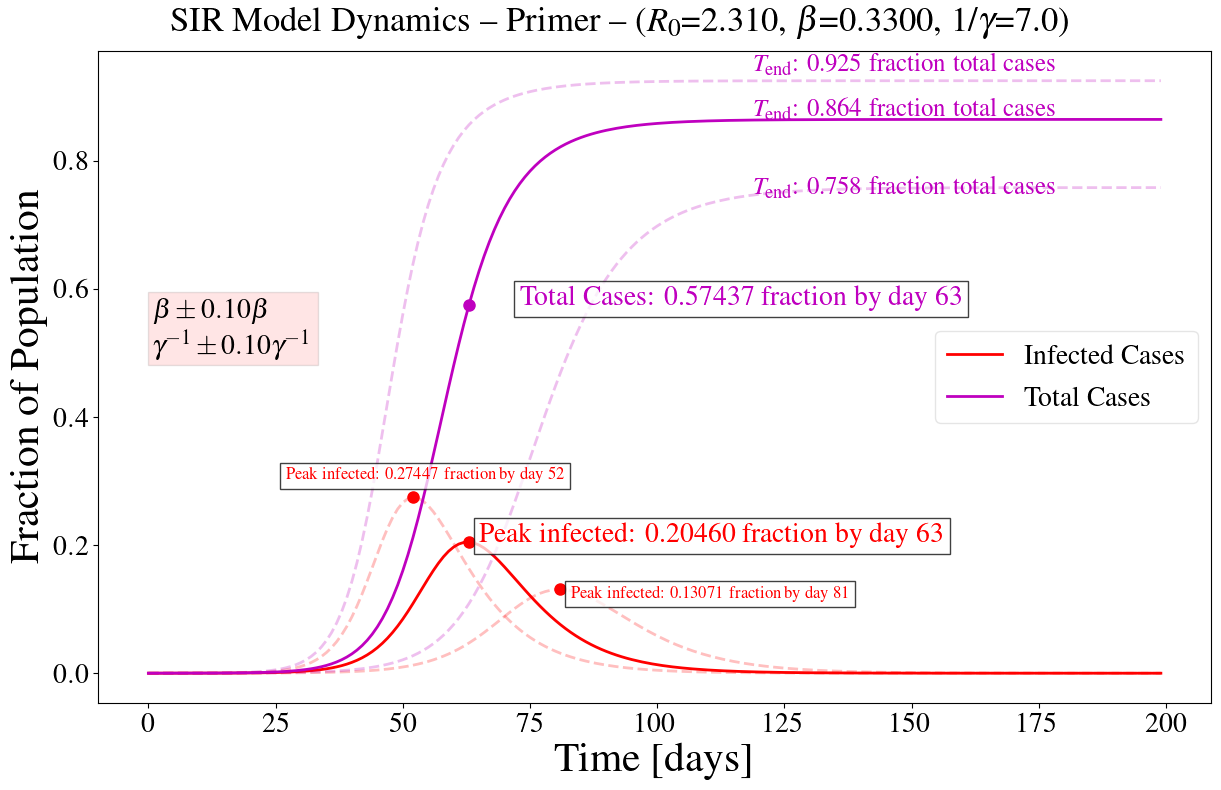
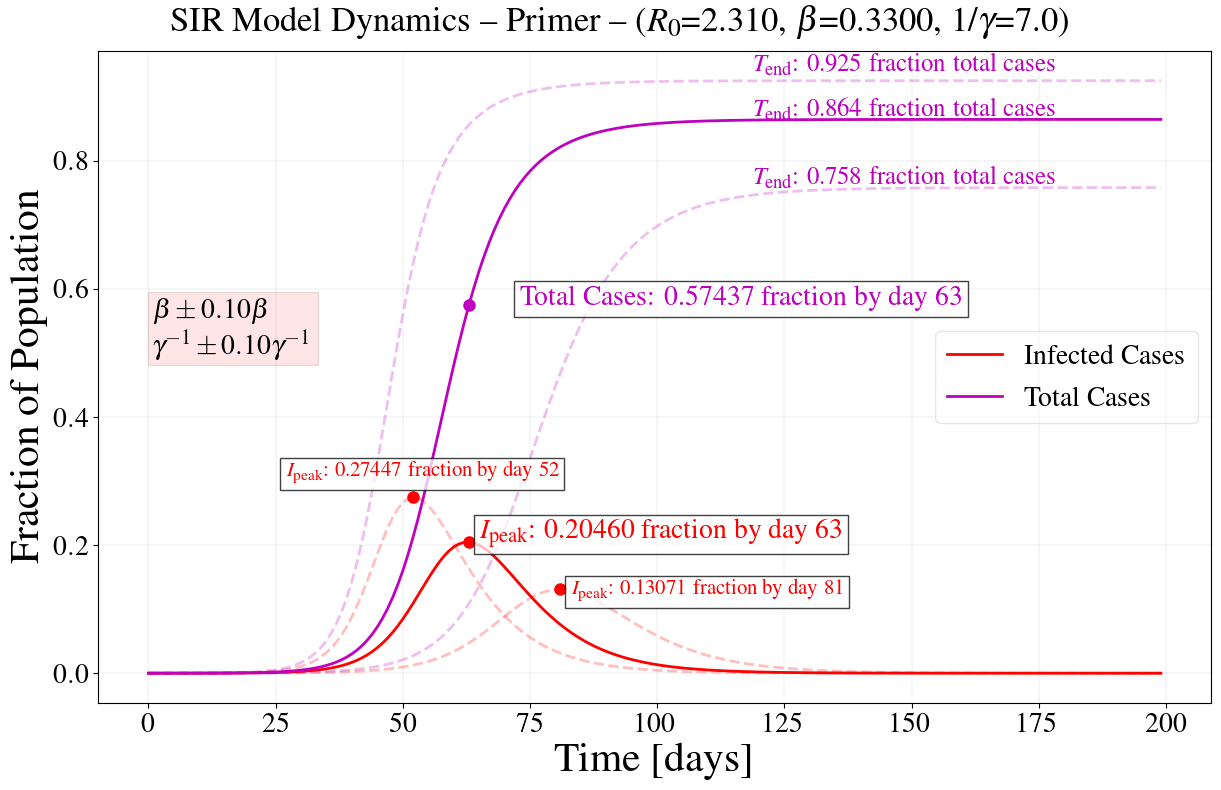
changes for paper

Changed region(s): [[0.2179, 0.5772, 0.7781, 0.7899], [0.6224, 0.2127, 0.8714, 0.2734]]

diff --git a/sec3c_sensitivityVariation_baselineSEIR_model.py b/sec3c_sensitivityVariation_baselineSEIR_model.py
@@ -1,0 +1,168 @@
+import numpy as np
+from   scipy.optimize import fsolve
+from   scipy import stats
+import matplotlib.pyplot as plt
+from   matplotlib import rc
+
+# For custom classes and functions
+from epimodels.sir    import *
+from epimodels.utils  import *
+from epimodels.plots  import *
+from epimodels.sims   import *
+
+
+def run_SIR(**kwargs):
+    '''
+        Run a single simulation of SIR dynamics
+    '''
+    N          = kwargs['N']
+    days       = kwargs['days']
+    beta       = kwargs['beta']
+    r0         = kwargs['r0']
+    gamma_inv  = kwargs['gamma_inv']
+    gamma      = 1.0 / gamma_inv
+
+    print('*****   SIMULATING SIR MODEL DYNAMICS *****')    
+    print('*****         Hyper-parameters        *****')
+    print('N=',N,'days=', days, 'r0=',r0, 'gamma_inv (days) = ',gamma_inv)
+    print('*****         Model-parameters        *****')
+    print('beta=',beta,'gamma=',gamma)
+
+    model_kwargs = {}
+    model_kwargs['r0']         = r0
+    model_kwargs['inf_period'] = gamma_inv
+    model_kwargs['I0']         = kwargs['I0']
+    model_kwargs['R0']         = kwargs['R0']
+
+    model   = SIR(N,**model_kwargs)
+    S,I,R   = model.project(days,'ode_int')
+    T       = I + R    
+
+    return S,I,R,T
+
+
+def storeVariationResults(beta_samples, gamma_inv_samples, I_samples, R_samples, **kwargs):
+    
+    T_samples  = I_samples+ R_samples
+    R0_samples = np.array(beta_samples) * np.array(gamma_inv_samples)
+    tc         = np.argmax(I_samples, axis=1)
+    
+    # Store stats
+    worksheet        = kwargs['worksheet']
+    row_num          = kwargs['row_num']
+
+    tests, days = T_samples.shape
+    tc_samples = []; Ipeak_samples = []; Tend_samples = [];
+    for test in range(tests):      
+        tc_samples.append(tc[test])
+        Ipeak_samples.append(I_samples[test,tc[test]])
+        Tend_samples.append(T_samples[test,days-1])
+
+    worksheet.write_row(row_num, 0,  beta_samples)
+    worksheet.write_row(row_num, 3,  gamma_inv_samples)
+    worksheet.write_row(row_num, 6,  R0_samples)    
+    worksheet.write_row(row_num, 9,  tc_samples)
+    worksheet.write_row(row_num, 12, Ipeak_samples)
+    worksheet.write_row(row_num, 15, Tend_samples)
+
+
+
+def run_SIR_wErrors(beta_samples, gamma_inv_samples, text_error, **kwargs):
+    '''
+        Run multiple SIR simulations (means +/- errors)
+    '''
+    scenario = kwargs['scenario']
+
+    ######## Record predictions ########
+    S_samples       = np.empty([3, kwargs['days']])
+    I_samples       = np.empty([3, kwargs['days']])
+    R_samples       = np.empty([3, kwargs['days']])
+
+    ############################################################
+    ######## Simulate Single Vanilla SIR Model Dynamics ########
+    ############################################################
+    for ii in range(len(beta_samples)):
+        kwargs['beta']      = beta_samples[ii]
+        kwargs['gamma_inv'] = gamma_inv_samples[ii]
+        kwargs['r0']        = beta_samples[ii]*gamma_inv_samples[ii]
+        S,I,R,T             = run_SIR(**kwargs)
+
+        # Storing run in matrix for post-processing
+        S_samples[ii,:] = S
+        I_samples[ii,:] = I
+        R_samples[ii,:] = R
+
+
+    storeVariationResults(beta_samples, gamma_inv_samples, I_samples, R_samples, **kwargs)
+
+    ##############################################################
+    ######## Plots Simulation Variables with Error Bounds ########
+    ##############################################################
+    x_axis_offset       = round(kwargs['days']*0.4)
+    y_axis_offset       = 0.0000000003 
+    plot_all            = 1; plot_peaks = 1; show_S = 0; show_T = 1; show_R = 0; show_analytic_limit = 0; scale_offset = 0.01 
+    Plotoptions         = plot_all, show_S, show_T, show_R, show_analytic_limit, plot_peaks, x_axis_offset, y_axis_offset, scale_offset, scenario
+    plotSIR_evolutionErrors_new(S_samples, I_samples, R_samples, Plotoptions, text_error, **kwargs)    
+
+
+def main():    
+
+    ####################################################################
+    ######## Choose Initial and Model Parameters for Simulation ########
+    ####################################################################
+    '''Simulation options defined in sims.py
+        sim_num = 1  --> India case study
+        sim_num = 2  --> Mexico case study
+        sim_num = 3  --> US case study
+        sim_num = 4  --> Yucatan case study
+        sim_num = 5  --> Primer case study
+    '''
+    sim_num    = 5; scenario   = 0
+    sim_kwargs                 = loadSimulationParams(sim_num, scenario, plot_data = 0)
+    # Need to get rid of this variable here/..
+    sim_kwargs['scenario']     = scenario
+    basefilename               = sim_kwargs['file_extension']
+    workbook, worksheet        = createResultsfile(basefilename, 'errorVary', test_type='varying')
+
+    ## For variation on these parameters
+    beta       = sim_kwargs['beta']
+    gamma_inv  = sim_kwargs['gamma_inv']
+
+    # Variables for +/- errors on beta
+    error_perc        = 10
+    err               = error_perc/100
+    
+    ########### Test 1: Vary beta, fix gamma ############
+    text_error                    = r"$\beta \pm %1.2f \beta $"%err
+    sim_kwargs['file_extension']  = basefilename + "_errorsVaryBeta"
+    sim_kwargs['worksheet']       = worksheet
+    sim_kwargs['row_num']         = 1
+    beta_samples                  = [beta, beta*(1+err), beta*(1-err)]
+    gamma_inv_samples             = [gamma_inv, gamma_inv, gamma_inv]
+    run_SIR_wErrors(beta_samples, gamma_inv_samples, text_error, **sim_kwargs)
+    plt.show()
+
+    ########### Test 2: fix beta, vary gamma ############
+    text_error                    = r"$\gamma^{-1} \pm %1.2f \gamma^{-1} $"%err
+    sim_kwargs['file_extension']  = basefilename + "_errorsVaryGamma"
+    sim_kwargs['worksheet']       = worksheet
+    sim_kwargs['row_num']         = 2
+    beta_samples                  = [beta, beta, beta]
+    gamma_inv_samples             = [gamma_inv, gamma_inv*(1+err), gamma_inv*(1-err)]
+    run_SIR_wErrors(beta_samples, gamma_inv_samples, text_error, **sim_kwargs)
+    plt.show()
+
+    ########### Test 3: vary beta, vary gamma ############
+    text_error                    =  r"$\beta \pm %1.2f \beta $"%err + "\n" +  r"$\gamma^{-1} \pm %1.2f \gamma^{-1} $"%err
+    sim_kwargs['file_extension']  = basefilename + "_errorsVaryBetaGamma"
+    sim_kwargs['worksheet']       = worksheet
+    sim_kwargs['row_num']         = 3
+    beta_samples      = [beta, beta*(1+err), beta*(1-err)]
+    gamma_inv_samples = [gamma_inv, gamma_inv*(1+err), gamma_inv*(1-err)]
+    run_SIR_wErrors(beta_samples, gamma_inv_samples, text_error, **sim_kwargs)
+    plt.show()
+    
+    workbook.close()
+
+if __name__ == '__main__':
+    main()

diff --git a/wip_demos/test.py b/wip_demos/test.py
@@ -1,0 +1,94 @@
+
+"""
+=============================================================
+Gaussian process regression (GPR) with noise-level estimation
+=============================================================
+This example illustrates that GPR with a sum-kernel including a WhiteKernel can
+estimate the noise level of data. An illustration of the
+log-marginal-likelihood (LML) landscape shows that there exist two local
+maxima of LML. The first corresponds to a model with a high noise level and a
+large length scale, which explains all variations in the data by noise. The
+second one has a smaller noise level and shorter length scale, which explains
+most of the variation by the noise-free functional relationship. The second
+model has a higher likelihood; however, depending on the initial value for the
+hyperparameters, the gradient-based optimization might also converge to the
+high-noise solution. It is thus important to repeat the optimization several
+times for different initializations.
+"""
+print(__doc__)
+
+# Authors: Jan Hendrik Metzen <jhm@informatik.uni-bremen.de>
+#
+# License: BSD 3 clause
+
+import numpy as np
+
+from sklearn.gaussian_process import GaussianProcessRegressor as GP
+from sklearn.gaussian_process.kernels import RBF, WhiteKernel
+
+
+from matplotlib import pyplot as plt
+from matplotlib.colors import LogNorm
+
+rng = np.random.RandomState(0)
+X = rng.uniform(0, 5, 20)[:, np.newaxis]
+y = 0.5 * np.sin(3 * X[:, 0]) + rng.normal(0, 0.5, X.shape[0])
+
+# First run
+plt.figure()
+kernel = 1.0 * RBF(length_scale=100.0, length_scale_bounds=(1e-2, 1e3)) \
+    + WhiteKernel(noise_level=1, noise_level_bounds=(1e-10, 1e+1))
+gp = GP(kernel=kernel,alpha=0.0).fit(X, y)
+X_ = np.linspace(0, 5, 100)
+y_mean, y_cov = gp.predict(X_[:, np.newaxis], return_cov=True)
+plt.plot(X_, y_mean, 'k', lw=3, zorder=9)
+plt.fill_between(X_, y_mean - np.sqrt(np.diag(y_cov)),
+                 y_mean + np.sqrt(np.diag(y_cov)),
+                 alpha=0.5, color='k')
+plt.plot(X_, 0.5*np.sin(3*X_), 'r', lw=3, zorder=9)
+plt.scatter(X[:, 0], y, c='r', s=50, zorder=10, edgecolors=(0, 0, 0))
+plt.title("Initial: %s\nOptimum: %s\nLog-Marginal-Likelihood: %s"% (kernel, gp.kernel_,gp.log_marginal_likelihood(gp.kernel_.theta)))
+plt.tight_layout()
+
+# # Second run
+# plt.figure()
+# kernel = 1.0 * RBF(length_scale=1.0, length_scale_bounds=(1e-2, 1e3)) \
+#     + WhiteKernel(noise_level=1e-5, noise_level_bounds=(1e-10, 1e+1))
+# gp = GP(kernel=kernel,
+#                               alpha=0.0).fit(X, y)
+# X_ = np.linspace(0, 5, 100)
+# y_mean, y_cov = gp.predict(X_[:, np.newaxis], return_cov=True)
+# plt.plot(X_, y_mean, 'k', lw=3, zorder=9)
+# plt.fill_between(X_, y_mean - np.sqrt(np.diag(y_cov)),
+#                  y_mean + np.sqrt(np.diag(y_cov)),
+#                  alpha=0.5, color='k')
+# plt.plot(X_, 0.5*np.sin(3*X_), 'r', lw=3, zorder=9)
+# plt.scatter(X[:, 0], y, c='r', s=50, zorder=10, edgecolors=(0, 0, 0))
+# plt.title("Initial: %s\nOptimum: %s\nLog-Marginal-Likelihood: %s"
+#           % (kernel, gp.kernel_,
+#              gp.log_marginal_likelihood(gp.kernel_.theta)))
+# plt.tight_layout()
+
+# # Plot LML landscape
+# plt.figure()
+# theta0 = np.logspace(-2, 3, 49)
+# theta1 = np.logspace(-2, 0, 50)
+# Theta0, Theta1 = np.meshgrid(theta0, theta1)
+# LML = [[gp.log_marginal_likelihood(np.log([0.36, Theta0[i, j], Theta1[i, j]]))
+#         for i in range(Theta0.shape[0])] for j in range(Theta0.shape[1])]
+# LML = np.array(LML).T
+
+# vmin, vmax = (-LML).min(), (-LML).max()
+# vmax = 50
+# level = np.around(np.logspace(np.log10(vmin), np.log10(vmax), 50), decimals=1)
+# plt.contour(Theta0, Theta1, -LML,
+#             levels=level, norm=LogNorm(vmin=vmin, vmax=vmax))
+# plt.colorbar()
+# plt.xscale("log")
+# plt.yscale("log")
+# plt.xlabel("Length-scale")
+# plt.ylabel("Noise-level")
+# plt.title("Log-marginal-likelihood")
+# plt.tight_layout()
+
+plt.show()

diff --git a/epimodels/plots.py b/epimodels/plots.py
@@ -1179,7 +1179,7 @@ def plotSIR_evolutionErrors_new(S_variables, I_variables, R_variables, Plotoptio
         print('Total Cases when growth linear = ', total_cases)
         # ax1.plot(t, (total_cases/N)*np.ones(len(t)), 'k--')
         # txt1 = "{per:2.4f} {number_scaling} total cases as $t(end)$"
-        ax1.text(t[-1]-x_axis_offset, 0.98*(total_cases/N), txt1.format(tend=T_end, per=total_cases/scale, number_scaling= number_scaling), fontsize=18, color='m')
+        ax1.text(t[-1]-x_axis_offset, (total_cases/N), txt1.format(tend=T_end, per=total_cases/scale, number_scaling= number_scaling), fontsize=18, color='m')
 
         total_cases     = T_plus[-1]
         print('Total Cases when growth linear = ', total_cases)
@@ -1235,7 +1235,7 @@ def plotSIR_evolutionErrors_new(S_variables, I_variables, R_variables, Plotoptio
         do_minus = 0
 
     if plot_peaks:
-        Ipeak = r"I_{\rm peak}"
+        Ipeak = r"$I_{\rm peak}$"
 
         # Plot peak points
         ax1.plot(tc, I_tc/N,'ro', markersize=8)
@@ -1264,14 +1264,14 @@ def plotSIR_evolutionErrors_new(S_variables, I_variables, R_variables, Plotoptio
 
         else:
             # Adjust automatically
-            txt_title = r"Peak infected: {I_tc:5.5f} {number_scaling} by day {peak_days:10.0f} " 
+            txt_title = r"{Ipeak}: {I_tc:5.5f} {number_scaling} by day {peak_days:10.0f} " 
             ax1.text(tc+2, (1)*I_tc/N , txt_title.format(Ipeak=Ipeak,I_tc=I_tc/scale, number_scaling=number_scaling, peak_days= tc), fontsize=20, color="r",  bbox=dict(facecolor='white', alpha=0.75))
             if do_plus:        
-                txt_title = r"Peak infected: {I_tc:5.5f} {number_scaling} by day {peak_days:10.0f} " 
-                ax1.text(I_tc_plus_idx-25, (1 + 10*scale_offset)*I_tc_plus/N, txt_title.format(Ipeak=Ipeak,I_tc=I_tc_plus/scale, number_scaling=number_scaling, peak_days= I_tc_plus_idx), fontsize=12, color="r",  bbox=dict(facecolor='white', alpha=0.75))
+                txt_title = r"{Ipeak}: {I_tc:5.5f} {number_scaling} by day {peak_days:10.0f} " 
+                ax1.text(I_tc_plus_idx-25, (1 + 10*scale_offset)*I_tc_plus/N, txt_title.format(Ipeak=Ipeak,I_tc=I_tc_plus/scale, number_scaling=number_scaling, peak_days= I_tc_plus_idx), fontsize=15, color="r",  bbox=dict(facecolor='white', alpha=0.75))
             if do_minus:
-                txt_title = r"Peak infected: {I_tc:5.5f} {number_scaling} by day {peak_days:10.0f} " 
-                ax1.text(I_tc_minus_idx+2, (1 - 10*scale_offset)*I_tc_minus/N, txt_title.format(Ipeak=Ipeak,I_tc=I_tc_minus/scale, number_scaling=number_scaling, peak_days= I_tc_minus_idx), fontsize=12, color="r",  bbox=dict(facecolor='white', alpha=0.75))
+                txt_title = r"{Ipeak}: {I_tc:5.5f} {number_scaling} by day {peak_days:10.0f} " 
+                ax1.text(I_tc_minus_idx+2, (1 - 10*scale_offset)*I_tc_minus/N, txt_title.format(Ipeak=Ipeak,I_tc=I_tc_minus/scale, number_scaling=number_scaling, peak_days= I_tc_minus_idx), fontsize=15, color="r",  bbox=dict(facecolor='white', alpha=0.75))
 
         if plot_all == 1:
             ax1.plot(tc, T_tc/N,'mo', markersize=8)
@@ -1297,7 +1297,8 @@ def plotSIR_evolutionErrors_new(S_variables, I_variables, R_variables, Plotoptio
     for tick in ax1.yaxis.get_major_ticks():
             tick.label.set_fontsize(20) 
     
-    # plt.grid(b=True, which='major', c='w', lw=2, ls='-')
+
+    ax1.grid(True, color='k', alpha=0.2, linewidth = 0.25)  
     fig.subplots_adjust(left=.12, bottom=.14, right=.93, top=0.93)
     fig.set_size_inches(27.5/2, 16.5/2, forward=True)
 
